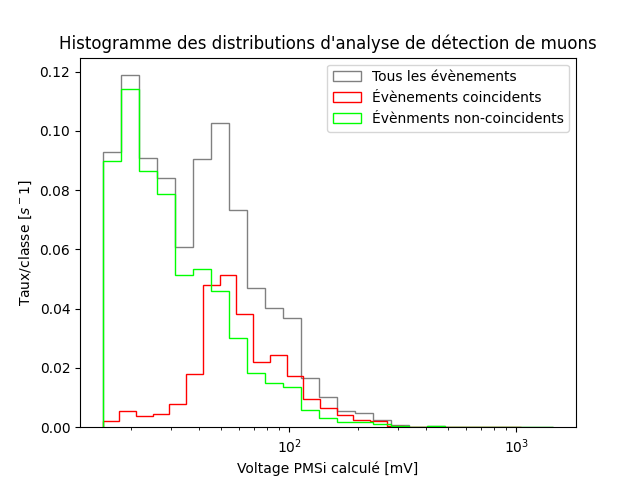
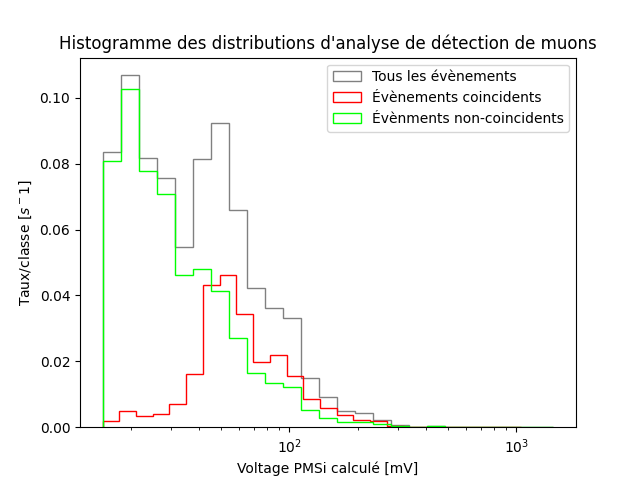
test

diff --git a/main.py b/main.py
@@ -52,21 +52,26 @@ def main():
     mVc = np.array(mVc)
     mVn = mVn[:, 2]
 
-
-    #noncoincidence(detect_prim, detect_sec, mVn)
-
-    test = np.append(mVc, mVn)
-
-    plt.figure(num=1)
     n_bin=25
+    plt.figure(num=1)
     plt.title("Histogramme des distributions d'analyse de détection de muons")
+    plot_loghist(detect_prim[:, 2], n_bin, 1/(RUNTIME/1000), 'step', 'grey', "Tous les évènements")
+    plot_loghist(mVc, n_bin, 1/(RUNTIME/1000), 'step', 'red', "Évènements coincidents")
+    plot_loghist(mVn[mVn != 0], n_bin, 1/(RUNTIME/1000), 'step', 'lime', "Évènments non-coincidents")
+    plt.xlabel("Voltage PMSi calculé [mV]")
+    plt.ylabel("Taux/classe [$s^-1$]")
+    plt.legend(loc="upper right")
+    plt.savefig("letn1102-joll1702(non-corrigé)")
+
+    plt.figure(num=2)
+    plt.title("Histogramme des distributions d'analyse de détection de muons (corrigé pour temps mort)")
     plot_loghist(detect_prim[:, 2], n_bin, tauxmuons(detect_prim), 'step', 'grey', "Tous les évènements")
     plot_loghist(mVc, n_bin, tauxmuons(detect_prim), 'step', 'red', "Évènements coincidents")
     plot_loghist(mVn[mVn != 0], n_bin, tauxmuons(detect_prim), 'step', 'lime', "Évènments non-coincidents")
     plt.xlabel("Voltage PMSi calculé [mV]")
     plt.ylabel("Taux/classe [$s^-1$]")
     plt.legend(loc="upper right")
-    plt.savefig("letn1102-joll1702(non-corrigé)")
+    plt.savefig("letn1102-joll1702(corrigé)")
     plt.show()
 
 
